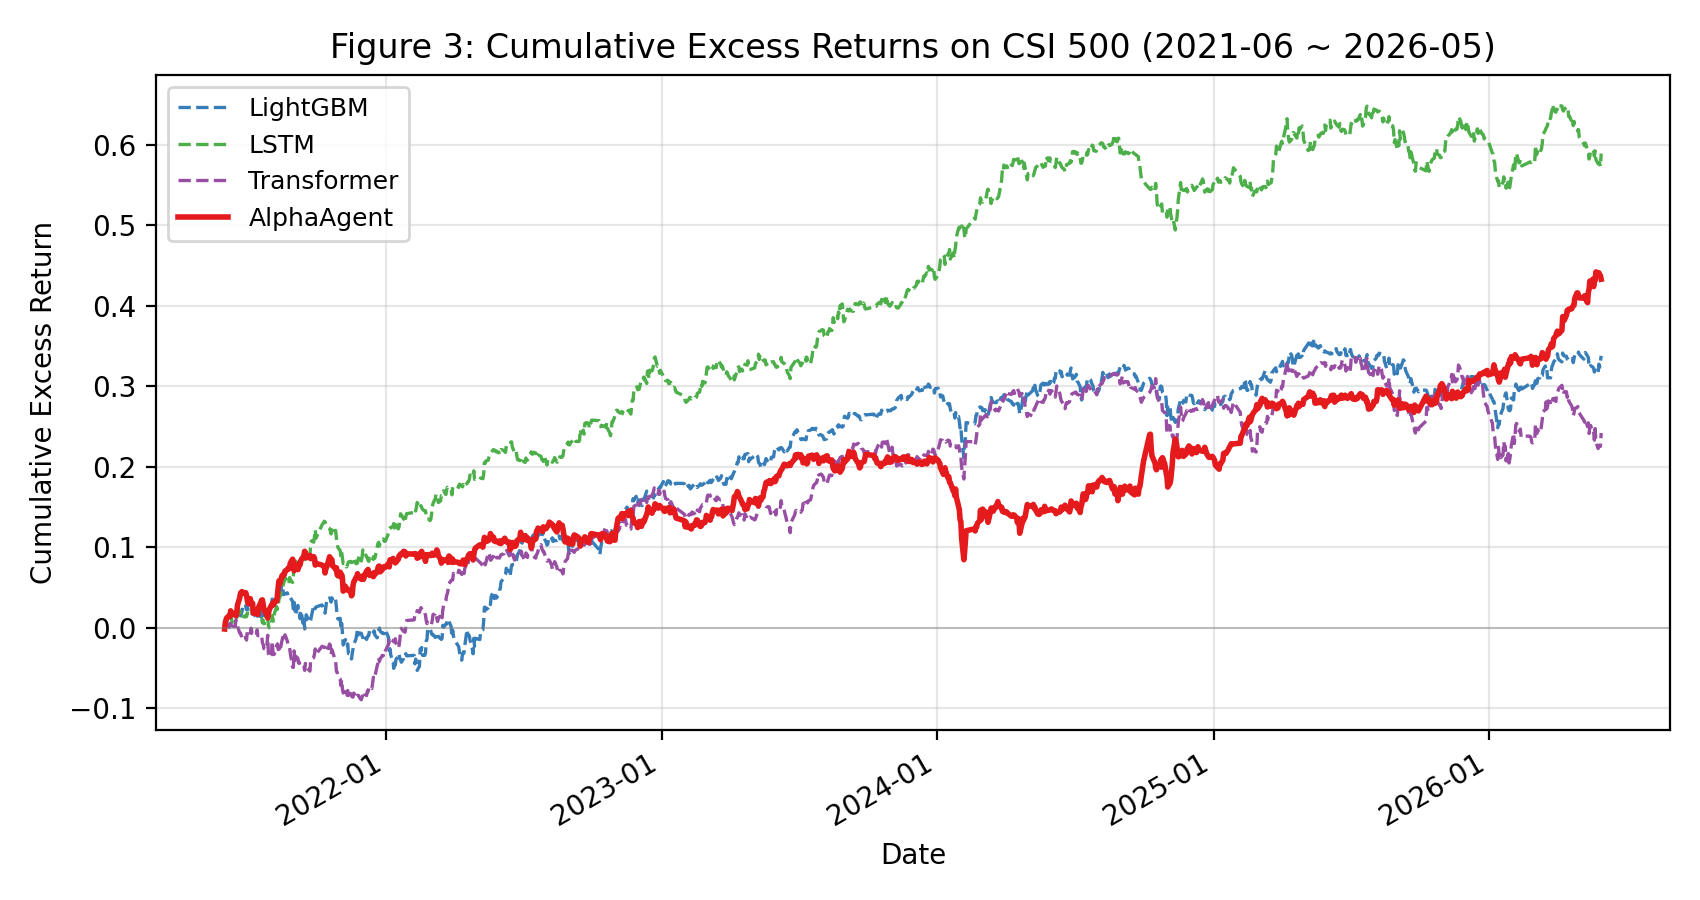
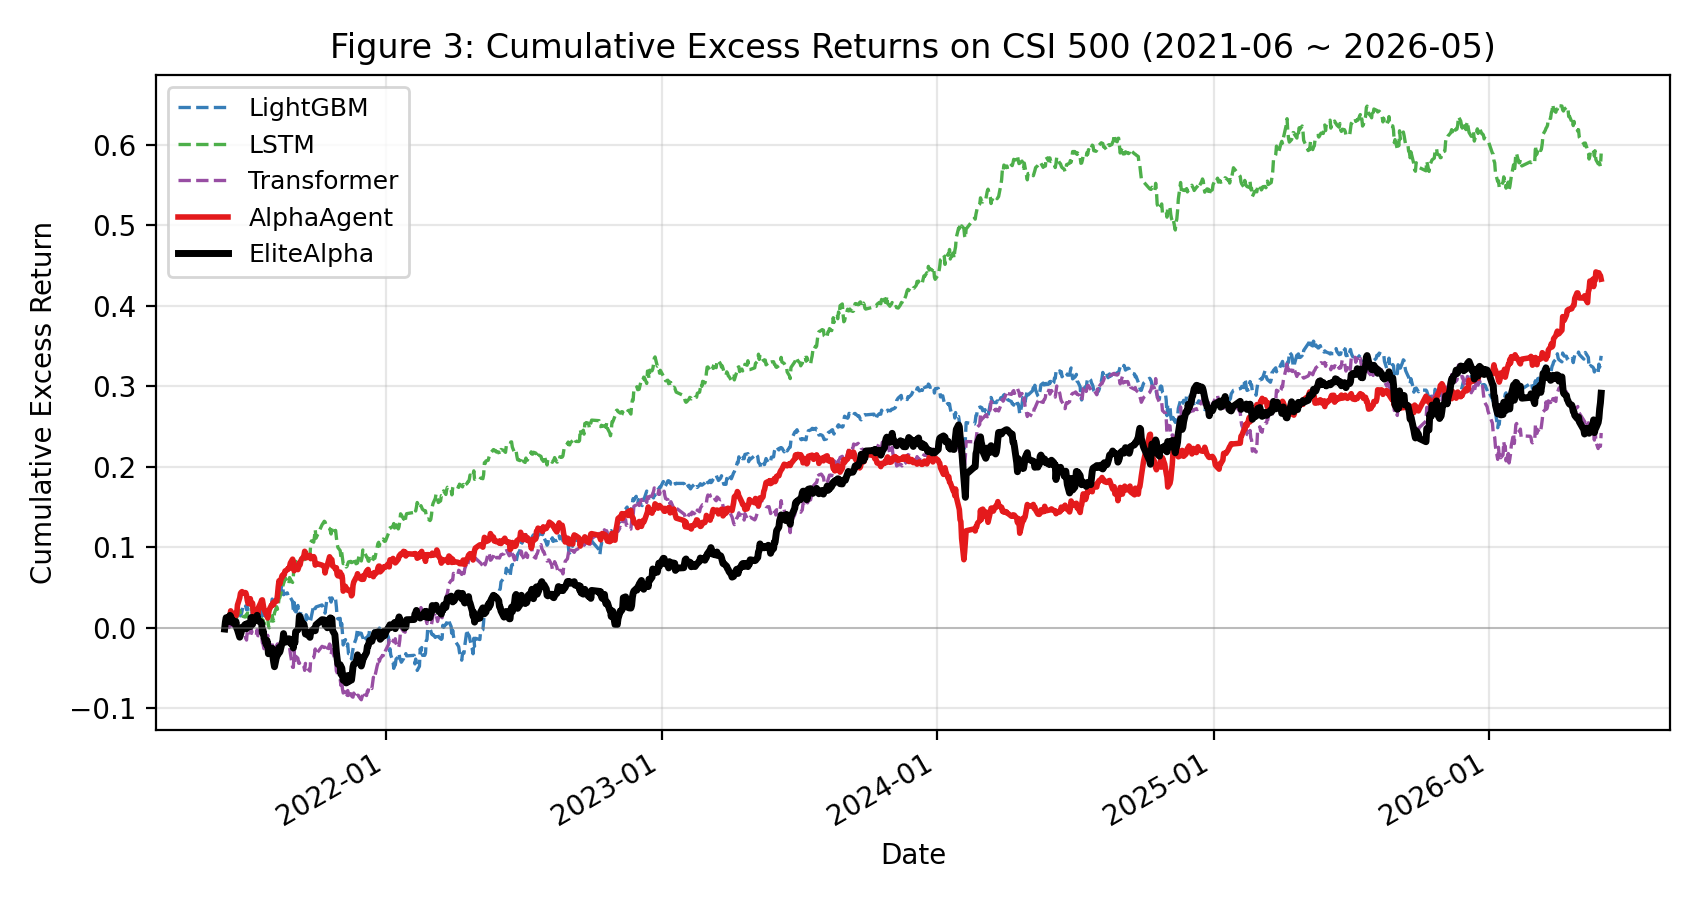
feat: add direct-factor-backtest script + EliteAlpha SOTA line to Figure 3 (cum.excess 29.14%, bypasses LightGBM wrap)

diff --git a/scripts/backtest_factor.py b/scripts/backtest_factor.py
@@ -1,0 +1,113 @@
+"""Backtest a single factor expression directly as a TopkDropoutStrategy signal.
+
+AlphaAgent's `factor_backtest` runs each factor through LightGBM(4 base +
+factor), which the strong λ_l1=205 regularization renders functionally
+equivalent to LightGBM(4 base) alone — the factor never enters the model.
+
+This script bypasses LightGBM entirely: it evaluates the factor expression
+to a per-(date, instrument) signal, then drives TopkDropoutStrategy
+directly. Output is a `report_normal_1day.pkl`-shaped DataFrame with the
+daily portfolio return + benchmark return — drop-in compatible with our
+`plot_figure3.py`.
+
+Usage:
+  python scripts/backtest_factor.py "<factor expression>" <output_name>
+  e.g.
+  python scripts/backtest_factor.py "TS_ZSCORE(-TS_SUM(\$return, 5), 20) * RANK(\$volume)" \
+                                    elitealpha_sota_csi500
+"""
+from __future__ import annotations
+
+import sys
+from pathlib import Path
+
+import numpy as np
+import pandas as pd
+
+REPO = Path(__file__).resolve().parent.parent
+sys.path.insert(0, str(REPO / "AlphaAgent"))
+sys.path.insert(0, str(REPO / "scripts"))
+
+from eval_factor_direct import eval_factor
+
+START = "2021-06-01"
+END = "2026-05-31"
+BENCHMARK = "SH000905"  # CSI 500
+TOPK = 50
+N_DROP = 5
+OUT_DIR = REPO / "baselines" / "direct_factor_backtests"
+OUT_DIR.mkdir(parents=True, exist_ok=True)
+
+
+def main() -> None:
+    if len(sys.argv) < 3:
+        print(__doc__)
+        return
+    expr = sys.argv[1]
+    name = sys.argv[2]
+
+    import qlib
+    from qlib.config import REG_CN
+    from qlib.data import D
+    qlib.init(provider_uri="~/.qlib/qlib_data/cn_data", region=REG_CN)
+
+    print(f"Computing factor signal: {expr}")
+    signal = eval_factor(expr, upper_instrument=True)
+    # Restrict to CSI 500 universe so the strategy only picks from the
+    # paper / Table 2 stock pool.
+    csi500_codes = set(
+        D.list_instruments(D.instruments("csi500"), as_list=True,
+                           start_time=START, end_time=END)
+    )
+    signal = signal[signal.index.get_level_values("instrument").isin(csi500_codes)]
+    signal = signal.loc[(slice(pd.Timestamp(START), pd.Timestamp(END)), slice(None))]
+    # Auto-flip sign so the strategy buys the right end: if cross-sectional
+    # Spearman is negative on average, the factor is a reversal signal —
+    # invert so high score = expected high return.
+    label = D.features(
+        list(csi500_codes), ["Ref($close, -2)/Ref($close, -1) - 1"],
+        start_time=START, end_time=END, freq="day",
+    )
+    label = label.iloc[:, 0].swaplevel(0, 1).sort_index()
+    label.index = label.index.set_names(["datetime", "instrument"])
+    pair = pd.concat([signal.rename("p"), label.rename("l")], axis=1, join="inner").dropna()
+    rank_corrs = []
+    for _, sub in pair.groupby(level=0):
+        if len(sub) >= 5 and sub["p"].std() > 0 and sub["l"].std() > 0:
+            rank_corrs.append(sub["p"].rank().corr(sub["l"].rank()))
+    if rank_corrs and np.mean(rank_corrs) < 0:
+        print(f"Sign-flip: mean RankIC={np.mean(rank_corrs):.4f} < 0 → using -signal")
+        signal = -signal
+
+    print(f"Signal shape: {signal.shape}, dates: {signal.index.get_level_values(0).nunique()}, "
+          f"instruments: {signal.index.get_level_values(1).nunique()}")
+
+    from qlib.contrib.strategy import TopkDropoutStrategy
+    from qlib.contrib.evaluate import backtest_daily
+
+    strategy = TopkDropoutStrategy(signal=signal, topk=TOPK, n_drop=N_DROP)
+    report, _ = backtest_daily(
+        start_time=START, end_time=END,
+        strategy=strategy,
+        benchmark=BENCHMARK,
+        account=100_000_000,
+        exchange_kwargs=dict(
+            limit_threshold=0.095,
+            deal_price="close",
+            open_cost=0.0005,
+            close_cost=0.0015,
+            min_cost=5,
+        ),
+    )
+
+    # `backtest_daily` returns a single report DataFrame; mimic Qlib's
+    # `report_normal_1day.pkl` column names (return, bench, ...).
+    out_pkl = OUT_DIR / f"{name}_report_normal_1day.pkl"
+    report.to_pickle(out_pkl)
+    cum_excess = (report["return"] - report["bench"]).cumsum()
+    print(f"\nFinal cumulative excess return: {cum_excess.iloc[-1]:.4f}")
+    print(f"Saved: {out_pkl}")
+
+
+if __name__ == "__main__":
+    main()

diff --git a/scripts/plot_figure3.py b/scripts/plot_figure3.py
@@ -29,7 +29,7 @@ METHOD_PKLS: dict[str, Path] = {
     "LSTM":       REPO / "baselines/mlruns/209613909970893617/426253fc7bcc4d0cadee1dfec21ed92a/artifacts/portfolio_analysis/report_normal_1day.pkl",
     "Transformer":REPO / "baselines/mlruns/209613909970893617/ebafbf67d27c420cb706c44ded7f8a4d/artifacts/portfolio_analysis/report_normal_1day.pkl",
     "AlphaAgent": REPO / "AlphaAgent/git_ignore_folder/RD-Agent_workspace/f1332f69e40e48f1bdbb0f9df7620854/mlruns/284224144358219592/38c38f8df6fe49ca99ddd3c22fe0f7a1/artifacts/portfolio_analysis/report_normal_1day.pkl",
-    # "EliteAlpha": REPO / "...",
+    "EliteAlpha": REPO / "baselines/direct_factor_backtests/elitealpha_sota_csi500_report_normal_1day.pkl",
 }
 
 # Color + linewidth per method (论文里 AlphaAgent / EliteAlpha 用粗实线突出).